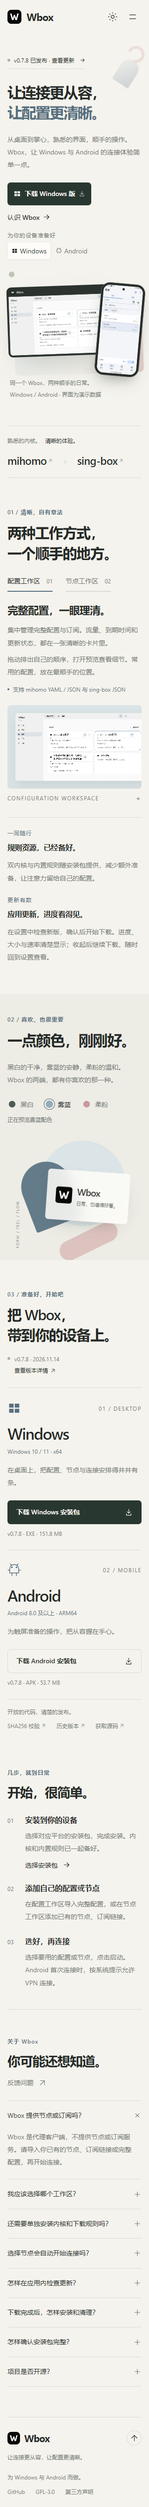
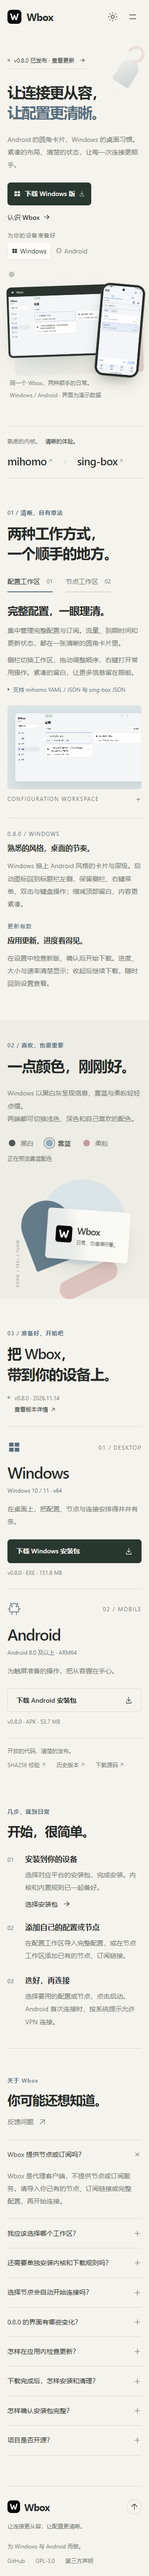
Sync website with Wbox 0.8.0 and verify public downloads

diff --git a/website/index.html b/website/index.html
@@ -6,7 +6,7 @@
   <meta name="color-scheme" content="light dark">
   <meta name="theme-color" content="#f5f3ed">
   <title>Wbox — 让连接更从容，让配置更清晰</title>
-  <meta name="description" content="Wbox 是面向 Windows 与 Android 的开源代理客户端。mihomo、sing-box 双内核，配置与节点两个工作区，内置规则资源，以及黑白、雾蓝、柔粉主题。">
+  <meta name="description" content="Wbox 是面向 Windows 与 Android 的开源双内核代理客户端。Windows 融合 Android 风格卡片与桌面操作，黑白主色、轻蓝柔粉点缀，支持配置与节点两个工作区。">
   <link rel="canonical" href="https://wbox.wucnebssss.hidns.co/">
   <meta property="og:type" content="website">
   <meta property="og:locale" content="zh_CN">
@@ -63,14 +63,14 @@
       <a class="release-link" data-release-link href="https://github.com/muchaomuicho/Wbox/releases/latest" target="_blank" rel="noopener noreferrer"><span class="status-dot"></span><span data-release-badge>开源双内核 · 查看最新版本</span><svg class="icon"><use href="#i-arrow"/></svg></a>
       <h1 id="hero-title">让连接更从容，<br><span>让配置更清晰。</span></h1>
       <div class="hero-bottom">
-        <div class="hero-intro"><p>从桌面到掌心，熟悉的界面，顺手的操作。<br class="desktop-break">Wbox，让 Windows 与 Android 的连接体验简单一点。</p>
+        <div class="hero-intro"><p>Android 的圆角卡片，Windows 的桌面习惯。<br class="desktop-break">紧凑的布局、清楚的状态，让每一次连接更顺手。</p>
           <div class="hero-cta"><a class="button button-solid" id="hero-download" href="#download"><svg class="icon" id="hero-platform-icon"><use href="#i-windows"/></svg><span id="hero-download-label">下载 Windows 版</span><svg class="icon button-arrow"><use href="#i-download"/></svg></a><a class="text-link" href="#experience">认识 Wbox <svg class="icon"><use href="#i-arrow"/></svg></a></div>
         </div>
         <div class="platform-control"><span class="tiny-label">为你的设备准备好</span><div class="platform-picker" role="group" aria-label="选择下载平台"><button type="button" data-platform="windows" aria-pressed="true"><svg class="icon"><use href="#i-windows"/></svg>Windows</button><button type="button" data-platform="android" aria-pressed="false"><svg class="icon"><use href="#i-android"/></svg>Android</button></div></div>
       </div>
       <figure class="showcase" id="showcase">
         <div class="showcase-ground" aria-hidden="true"></div><span class="showcase-dot" aria-hidden="true"></span>
-        <div class="desktop-device"><div class="window-rail" aria-hidden="true"><span class="rail-brand">W</span><span>Wbox</span><span class="rail-controls">― &nbsp; □ &nbsp; ×</span></div><img src="/assets/windows-configurations.webp" width="2158" height="1130" alt="Wbox Windows 配置工作区：配置卡片集中显示流量、到期时间与更新状态" fetchpriority="high"></div>
+        <div class="desktop-device"><div class="window-rail" aria-hidden="true"><span class="rail-brand">W</span><span>Wbox</span><span class="rail-controls">― &nbsp; □ &nbsp; ×</span></div><img src="/assets/windows-configurations.webp" width="1179" height="620" alt="Wbox 0.8.0 Windows 配置工作区：紧凑侧栏、圆角配置卡片与当前配置选中状态" fetchpriority="high"></div>
         <div class="phone-device"><span class="phone-camera" aria-hidden="true"></span><img src="/assets/android-nodes.webp" width="1080" height="2400" alt="Wbox Android 节点工作区：选中节点与逐项延迟结果"></div>
         <figcaption><span>同一个 Wbox，两种顺手的日常。</span><span>Windows / Android · 界面为演示数据</span></figcaption>
       </figure>
@@ -83,22 +83,22 @@
       <div class="workspace-layout reveal">
         <div class="workspace-copy">
           <div class="workspace-tabs" role="tablist" aria-label="了解工作区"><button type="button" role="tab" id="workspace-config-tab" aria-controls="workspace-config" aria-selected="true" data-workspace="config">配置工作区<span>01</span></button><button type="button" role="tab" id="workspace-nodes-tab" aria-controls="workspace-nodes" aria-selected="false" tabindex="-1" data-workspace="nodes">节点工作区<span>02</span></button></div>
-          <div role="tabpanel" id="workspace-config" aria-labelledby="workspace-config-tab"><h3>完整配置，<br>一眼理清。</h3><p>集中管理完整配置与订阅。流量、到期时间和更新状态，都在一张清晰的卡片里。</p><p>拖动排出自己的顺序，打开预览查看细节。常用的配置，放在最顺手的位置。</p><span class="feature-note"><i></i>支持 mihomo YAML / JSON 与 sing-box JSON</span></div>
+          <div role="tabpanel" id="workspace-config" aria-labelledby="workspace-config-tab"><h3>完整配置，<br>一眼理清。</h3><p>集中管理完整配置与订阅。流量、到期时间和更新状态，都在一张清晰的圆角卡片里。</p><p>侧栏切换工作区，拖动调整顺序，右键打开常用操作。紧凑的留白，让更多信息留在眼前。</p><span class="feature-note"><i></i>支持 mihomo YAML / JSON 与 sing-box JSON</span></div>
           <div role="tabpanel" id="workspace-nodes" aria-labelledby="workspace-nodes-tab" hidden><h3>常用节点，<br>轻点选好。</h3><p>节点与订阅单独管理，搜索、选择、测速，各有自己的位置。</p><p>未连接时，单击只做选择；已连接时，切换立即应用。逐项更新的延迟，让等待也清清楚楚。</p><span class="feature-note"><i></i>Windows 右键操作，Android 单击选择</span></div>
         </div>
-        <figure class="workspace-visual"><div class="workspace-image-shell"><img id="workspace-image" src="/assets/windows-configurations.webp" width="2158" height="1130" loading="lazy" alt="Windows 配置工作区的配置卡片和订阅信息"></div><figcaption><span id="workspace-caption">CONFIGURATION WORKSPACE</span><span class="visual-cross" aria-hidden="true">+</span></figcaption></figure>
+        <figure class="workspace-visual"><div class="workspace-image-shell"><img id="workspace-image" src="/assets/windows-configurations.webp" width="1179" height="620" loading="lazy" alt="Wbox 0.8.0 Windows 配置工作区的圆角卡片与当前配置"></div><figcaption><span id="workspace-caption">CONFIGURATION WORKSPACE</span><span class="visual-cross" aria-hidden="true">+</span></figcaption></figure>
       </div>
-      <div class="detail-row reveal"><div><span class="detail-number">一同随行</span><h3>规则资源，已经备好。</h3><p>双内核与内置规则随安装包提供，减少额外准备，让注意力留给自己的配置。</p></div><div><span class="detail-number">更新有数</span><h3>应用更新，进度看得见。</h3><p>在设置中检查新版，确认后开始下载。进度、大小与速率清楚显示；收起后继续下载，随时回到设置查看。</p></div></div>
+      <div class="detail-row reveal"><div><span class="detail-number">0.8.0 / WINDOWS</span><h3>熟悉的风格，桌面的节奏。</h3><p>Windows 换上 Android 风格的卡片与层级。启动图标回到标题栏左侧，保留侧栏、右键菜单、双击与键盘操作；缩减顶部留白，内容更紧凑。</p></div><div><span class="detail-number">更新有数</span><h3>应用更新，进度看得见。</h3><p>在设置中检查新版，确认后开始下载。进度、大小与速率清楚显示；收起后继续下载，随时回到设置查看。</p></div></div>
     </section>
 
-    <section class="color-section reveal" aria-labelledby="color-title"><div class="wrap color-layout"><div class="color-copy"><span class="eyebrow">02 / 喜欢，也很重要</span><h2 id="color-title">一点颜色，<br>刚刚好。</h2><p>黑白的干净，雾蓝的安静，柔粉的温和。<br>Wbox 的两端，都有你喜欢的那一种。</p><div class="color-options" role="group" aria-label="预览页面配色"><button type="button" data-accent="mono" aria-pressed="false"><span class="swatch swatch-mono"></span>黑白</button><button type="button" data-accent="blue" aria-pressed="true"><span class="swatch swatch-blue"></span>雾蓝</button><button type="button" data-accent="pink" aria-pressed="false"><span class="swatch swatch-pink"></span>柔粉</button></div><span class="color-hint" id="color-hint">正在预览雾蓝配色</span></div><div class="color-composition" aria-hidden="true"><div class="composition-circle"></div><div class="composition-arc"></div><div class="composition-pill"></div><div class="composition-label"><img src="/assets/wbox.svg" width="48" height="48" alt=""><span>Wbox</span><i>日常，也值得好看。</i></div><span class="composition-coordinate">FORM / FEEL / FLOW</span></div></div></section>
+    <section class="color-section reveal" aria-labelledby="color-title"><div class="wrap color-layout"><div class="color-copy"><span class="eyebrow">02 / 喜欢，也很重要</span><h2 id="color-title">一点颜色，<br>刚刚好。</h2><p>Windows 以黑白灰呈现信息，雾蓝与柔粉轻轻点缀。<br>两端都可切换浅色、深色和自己喜欢的配色。</p><div class="color-options" role="group" aria-label="预览页面配色"><button type="button" data-accent="mono" aria-pressed="false"><span class="swatch swatch-mono"></span>黑白</button><button type="button" data-accent="blue" aria-pressed="true"><span class="swatch swatch-blue"></span>雾蓝</button><button type="button" data-accent="pink" aria-pressed="false"><span class="swatch swatch-pink"></span>柔粉</button></div><span class="color-hint" id="color-hint">正在预览雾蓝配色</span></div><div class="color-composition" aria-hidden="true"><div class="composition-circle"></div><div class="composition-arc"></div><div class="composition-pill"></div><div class="composition-label"><img src="/assets/wbox.svg" width="48" height="48" alt=""><span>Wbox</span><i>日常，也值得好看。</i></div><span class="composition-coordinate">FORM / FEEL / FLOW</span></div></div></section>
 
     <section class="download section wrap" id="download" aria-labelledby="download-title"><div class="download-heading reveal"><div><span class="eyebrow">03 / 准备好，开始吧</span><h2 id="download-title">把 Wbox，<br>带到你的设备上。</h2></div><div class="release-meta"><span class="status-dot"></span><span id="release-status" role="status">从 GitHub 获取最新稳定版本</span><a data-release-link href="https://github.com/muchaomuicho/Wbox/releases/latest" target="_blank" rel="noopener noreferrer">查看版本详情 <svg class="icon"><use href="#i-up-right"/></svg></a></div></div>
       <div class="download-options reveal">
         <article class="download-option" id="download-windows"><div class="download-platform"><svg class="platform-mark"><use href="#i-windows"/></svg><span class="platform-index">01 / DESKTOP</span></div><h3>Windows</h3><p class="platform-requirement">Windows 10 / 11 · x64</p><p class="platform-description">在桌面上，把配置、节点与连接<br>安排得井井有条。</p><a class="button button-solid download-button" data-download="windows" href="https://github.com/muchaomuicho/Wbox/releases/latest" target="_blank" rel="noopener noreferrer"><span>下载 Windows 安装包</span><svg class="icon"><use href="#i-download"/></svg></a><p class="asset-meta" data-asset-meta="windows">EXE 安装程序 · 内含所需运行库</p></article>
         <article class="download-option" id="download-android"><div class="download-platform"><svg class="platform-mark"><use href="#i-android"/></svg><span class="platform-index">02 / MOBILE</span></div><h3>Android</h3><p class="platform-requirement">Android 8.0 及以上 · ARM64</p><p class="platform-description">为触屏准备的操作，<br>把从容握在手心。</p><a class="button button-outline download-button" data-download="android" href="https://github.com/muchaomuicho/Wbox/releases/latest" target="_blank" rel="noopener noreferrer"><span>下载 Android 安装包</span><svg class="icon"><use href="#i-download"/></svg></a><p class="asset-meta" data-asset-meta="android">APK 安装包 · ARM64 设备</p></article>
       </div>
-      <div class="download-footnote reveal"><span>开放的代码，清楚的发布。</span><div><a data-checksum-link href="https://github.com/muchaomuicho/Wbox/releases/latest" target="_blank" rel="noopener noreferrer">SHA256 校验 <svg class="icon"><use href="#i-up-right"/></svg></a><a href="https://github.com/muchaomuicho/Wbox/releases" target="_blank" rel="noopener noreferrer">历史版本 <svg class="icon"><use href="#i-up-right"/></svg></a><a href="https://github.com/muchaomuicho/Wbox" target="_blank" rel="noopener noreferrer">获取源码 <svg class="icon"><use href="#i-up-right"/></svg></a></div></div>
+      <div class="download-footnote reveal"><span>开放的代码，清楚的发布。</span><div><a data-checksum-link href="https://github.com/muchaomuicho/Wbox/releases/latest" target="_blank" rel="noopener noreferrer">SHA256 校验 <svg class="icon"><use href="#i-up-right"/></svg></a><a href="https://github.com/muchaomuicho/Wbox/releases" target="_blank" rel="noopener noreferrer">历史版本 <svg class="icon"><use href="#i-up-right"/></svg></a><a data-source-link href="https://github.com/muchaomuicho/Wbox/releases/latest" target="_blank" rel="noopener noreferrer">下载源码 <svg class="icon"><use href="#i-up-right"/></svg></a></div></div>
       <p class="release-fallback" id="release-fallback" hidden>暂时无法读取最新版本。下载按钮会带你前往 GitHub 发布页，选择与你设备对应的安装包。</p>
       <noscript><p class="release-fallback">下载按钮将打开 GitHub 最新发布页，请选择 Windows x64 EXE 或 Android ARM64 APK。</p></noscript>
     </section>
@@ -109,7 +109,8 @@
       <details name="faq"><summary>Wbox 提供节点或订阅吗？<svg class="icon"><use href="#i-plus"/></svg></summary><div class="faq-answer"><p>Wbox 是代理客户端，不提供节点或订阅服务。请导入你已有的节点、订阅链接或完整配置，再开始连接。</p></div></details>
       <details name="faq"><summary>我应该选择哪个工作区？<svg class="icon"><use href="#i-plus"/></svg></summary><div class="faq-answer"><p>已有完整 mihomo 或 sing-box 配置时，使用「配置工作区」管理、预览和切换配置。想直接管理节点链接及节点订阅时，使用「节点工作区」。两个工作区可在应用内切换。</p></div></details>
       <details name="faq"><summary>还需要单独安装内核和下载规则吗？<svg class="icon"><use href="#i-plus"/></svg></summary><div class="faq-answer"><p>安装包已经包含 mihomo、sing-box 及内置规则资源。自己的配置若引用了额外的远程资源，则仍按该配置的规则加载。</p></div></details>
-      <details name="faq"><summary>选择节点会自动开始连接吗？<svg class="icon"><use href="#i-plus"/></svg></summary><div class="faq-answer"><p>未连接时，单击节点只保存选择，点击启动后才开始连接。已经连接时，选择另一个节点会应用切换。这样，选择和连接始终各自清楚。</p></div></details>
+      <details name="faq"><summary>选择节点会自动开始连接吗？<svg class="icon"><use href="#i-plus"/></svg></summary><div class="faq-answer"><p>未连接时，单击节点只保存选择，点击启动图标后才开始连接。Windows 还可双击节点或按 Enter 直接连接。已经连接时，选择另一个节点会应用切换。</p></div></details>
+      <details name="faq"><summary>0.8.0 的界面有哪些变化？<svg class="icon"><use href="#i-plus"/></svg></summary><div class="faq-answer"><p>Windows 采用 Android 风格的圆角卡片和视觉层级，以黑白灰为主，雾蓝与柔粉只在按钮、图标、选中项和流量曲线中轻量点缀。标题栏与正文更紧凑，侧栏保留适当顶部留白。启动／停止图标位于标题栏左侧，悬停可查看操作提示。</p><p>侧栏导航、右键菜单、双击／Enter 连接和配置拖拽继续保留。Android 此次仅同步版本号至 0.8.0，界面与功能保持原有体验。</p></div></details>
       <details name="faq"><summary>怎样在应用内检查更新？<svg class="icon"><use href="#i-plus"/></svg></summary><div class="faq-answer"><p>从 0.7.9 起，Windows 与 Android 都可在「设置」中点击「检查更新」，检查 GitHub 最新正式版。发现新版后先询问，确认才下载。</p><p>下载时可查看进度、已下载大小和速率。收起更新面板后下载仍会继续，回到设置点击「查看下载进度」即可重新打开；Windows 隐藏主窗口也不影响下载。</p></div></details>
       <details name="faq"><summary>下载完成后，怎样安装和清理？<svg class="icon"><use href="#i-plus"/></svg></summary><div class="faq-answer"><p>Windows 完成校验后会关闭 Wbox 并打开安装器，请按提示完成安装；安装器退出后会清理本次安装包。</p><p>Android 首次更新可能需要允许 Wbox 安装应用，随后仍需在系统安装器中确认。系统接收完整安装内容后，Wbox 会清理下载副本。</p></div></details>
       <details name="faq"><summary>怎样确认安装包完整？<svg class="icon"><use href="#i-plus"/></svg></summary><div class="faq-answer"><p>每个版本的发布页提供 SHA256 校验文件。计算下载文件的 SHA256，并与对应文件名的校验值比较即可。</p><a data-checksum-link href="https://github.com/muchaomuicho/Wbox/releases/latest" target="_blank" rel="noopener noreferrer">获取当前版本校验文件 ↗</a></div></details>

diff --git a/website/app.js b/website/app.js
@@ -110,8 +110,8 @@
   const workspaceTabs = selectAll('[data-workspace]');
   const workspaceImage = select('#workspace-image');
   const workspaceData = {
-    config: { image: '/assets/windows-configurations.webp', alt: 'Windows 配置工作区的配置卡片和订阅信息', caption: 'CONFIGURATION WORKSPACE' },
-    nodes: { image: '/assets/windows-nodes.webp', alt: 'Windows 节点工作区的节点列表与右键操作菜单', caption: 'NODE WORKSPACE' },
+    config: { image: '/assets/windows-configurations.webp', alt: 'Wbox 0.8.0 Windows 配置工作区的圆角卡片与当前配置', caption: 'CONFIGURATION WORKSPACE' },
+    nodes: { image: '/assets/windows-nodes.webp', alt: 'Wbox 0.8.0 Windows 节点工作区的搜索、节点列表与当前选择', caption: 'NODE WORKSPACE' },
   };
   function applyWorkspace(value, focus = false) {
     workspaceTabs.forEach((button) => {
@@ -200,6 +200,8 @@
       }
       const checksum = findAsset(/^SHA256.*\.txt$/i);
       selectAll('[data-checksum-link]').forEach((link) => { link.href = checksum ? githubURL(checksum.browser_download_url, true) : releaseURL; });
+      const source = findAsset(/-source\.zip$/i);
+      selectAll('[data-source-link]').forEach((link) => { link.href = source ? githubURL(source.browser_download_url, true) : releaseURL; });
       applyPlatform(platform);
       if (!binaries.windows || !binaries.android) {
         select('#release-fallback').textContent = '部分安装包信息暂不可用；对应下载按钮会打开 GitHub 发布页，可在那里选择安装包。';

diff --git a/website/styles.css b/website/styles.css
@@ -165,7 +165,7 @@ h2 { font-size: clamp(34px, 4vw, 51px); line-height: 1.35; letter-spacing: -.045
 .feature-note i { width: 4px; height: 4px; border-radius: 50%; background: currentColor; flex-shrink: 0; }
 .workspace-visual { min-width: 0; padding-top: 4px; }
 .workspace-image-shell { padding: 22px 0 22px 25px; border-radius: 7px; overflow: hidden; background: var(--accent-soft); transition: background .35s; }
-.workspace-image-shell img { width: calc(100% + 10px); height: auto; max-width: none; display: block; border-radius: 5px 0 0 5px; border: 1px solid #00000008; box-shadow: 0 12px 30px #15231d17; aspect-ratio: 2158 / 1130; object-fit: cover; object-position: top; }
+.workspace-image-shell img { width: calc(100% + 10px); height: auto; max-width: none; display: block; border-radius: 5px 0 0 5px; border: 1px solid #00000008; box-shadow: 0 12px 30px #15231d17; aspect-ratio: 1179 / 620; object-fit: cover; object-position: top; }
 .workspace-image-shell img.changing { animation: image-in .45s var(--ease); }
 .workspace-visual figcaption { display: flex; justify-content: space-between; margin-top: 15px; color: var(--muted); font-size: 9px; letter-spacing: .12em; }
 .visual-cross { font-size: 17px; line-height: 1; }
